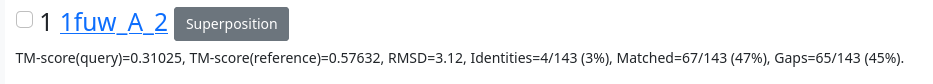
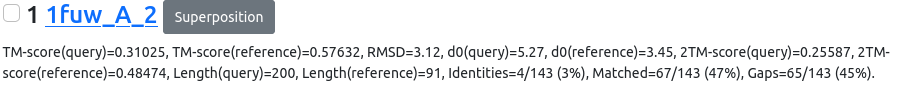
Display more data for GTalign search results
modified:   static/img/gtalign_tutorial/10_select.png
	modified:   static/img/gtalign_tutorial/7_results.png
	modified:   static/img/gtalign_tutorial/8_alignment.png
	modified:   static/img/gtalign_tutorial/9a_table_superposition.png
	modified:   static/img/gtalign_tutorial/9b_alignment_superposition.png
	modified:   static/img/help/gtalign_results.png
	modified:   static/js/structure_search/results.js

Changed region(s): [[0.0, 0.0, 0.9879, 0.9048]]

diff --git a/static/js/structure_search/results.js b/static/js/structure_search/results.js
@@ -1,6 +1,6 @@
 'use sctrict';
 function getResultsTableColumns() {
-    return ['', 'No.', 'ID', 'TM-score (query)', 'TM-score (reference)', 'RMSD', 'd0 (query)', 'd0 (reference)', '2TM-score (query)', '2TM-score (reference)', 'Aligned residues', 'Reference length', ''];
+    return ['', 'No.', 'ID', 'TM-score (query)', 'TM-score (reference)', 'RMSD', 'd0 (query)', 'd0 (reference)', '2TM-score (query)', '2TM-score (reference)', 'Aligned residues', 'Query length', 'Reference length', ''];
 }
 function colorSummary(tm_score) {
     return '42'
@@ -34,6 +34,8 @@ function fillSummaryTableRowData(row, hit_record, i) {
     row.appendChild(createTableData(hit_record.alignment['2tmscore_refn']));
     // Aligned residues
     row.appendChild(createTableData(hit_record.alignment.n_aligned - hit_record.alignment.n_gaps));
+    // Query length
+    row.appendChild(createTableData(hit_record.query_length));
     // Reference length
     row.appendChild(createTableData(hit_record.reference_length));
     // Superposition button.
@@ -51,6 +53,12 @@ function formatAlignmentDescription(alignment_div, hit_record) {
     alignment_description.innerText = 'TM-score(query)=' + hit_record.alignment.tmscore_query;
     alignment_description.innerText += ', TM-score(reference)=' + hit_record.alignment.tmscore_refn;
     alignment_description.innerText += ', RMSD=' + hit_record.alignment.rmsd;
+    alignment_description.innerText += ', d0(query)=' + hit_record.alignment.d0_query;
+    alignment_description.innerText += ', d0(reference)=' + hit_record.alignment.d0_refn;
+    alignment_description.innerText += ', 2TM-score(query)=' + hit_record.alignment['2tmscore_query'];
+    alignment_description.innerText += ', 2TM-score(reference)=' + hit_record.alignment['2tmscore_refn'];
+    alignment_description.innerText += ', Length(query)=' + hit_record.query_length;
+    alignment_description.innerText += ', Length(reference)=' + hit_record.reference_length;
     alignment_description.innerText += ', Identities=' + percentageDisplay(hit_record.alignment.n_identities, hit_record.alignment.n_aligned);
     alignment_description.innerText += ', Matched=' + percentageDisplay(hit_record.alignment.n_matched, hit_record.alignment.n_aligned);
     alignment_description.innerText += ', Gaps=' + percentageDisplay(hit_record.alignment.n_gaps, hit_record.alignment.n_aligned) + '.';
